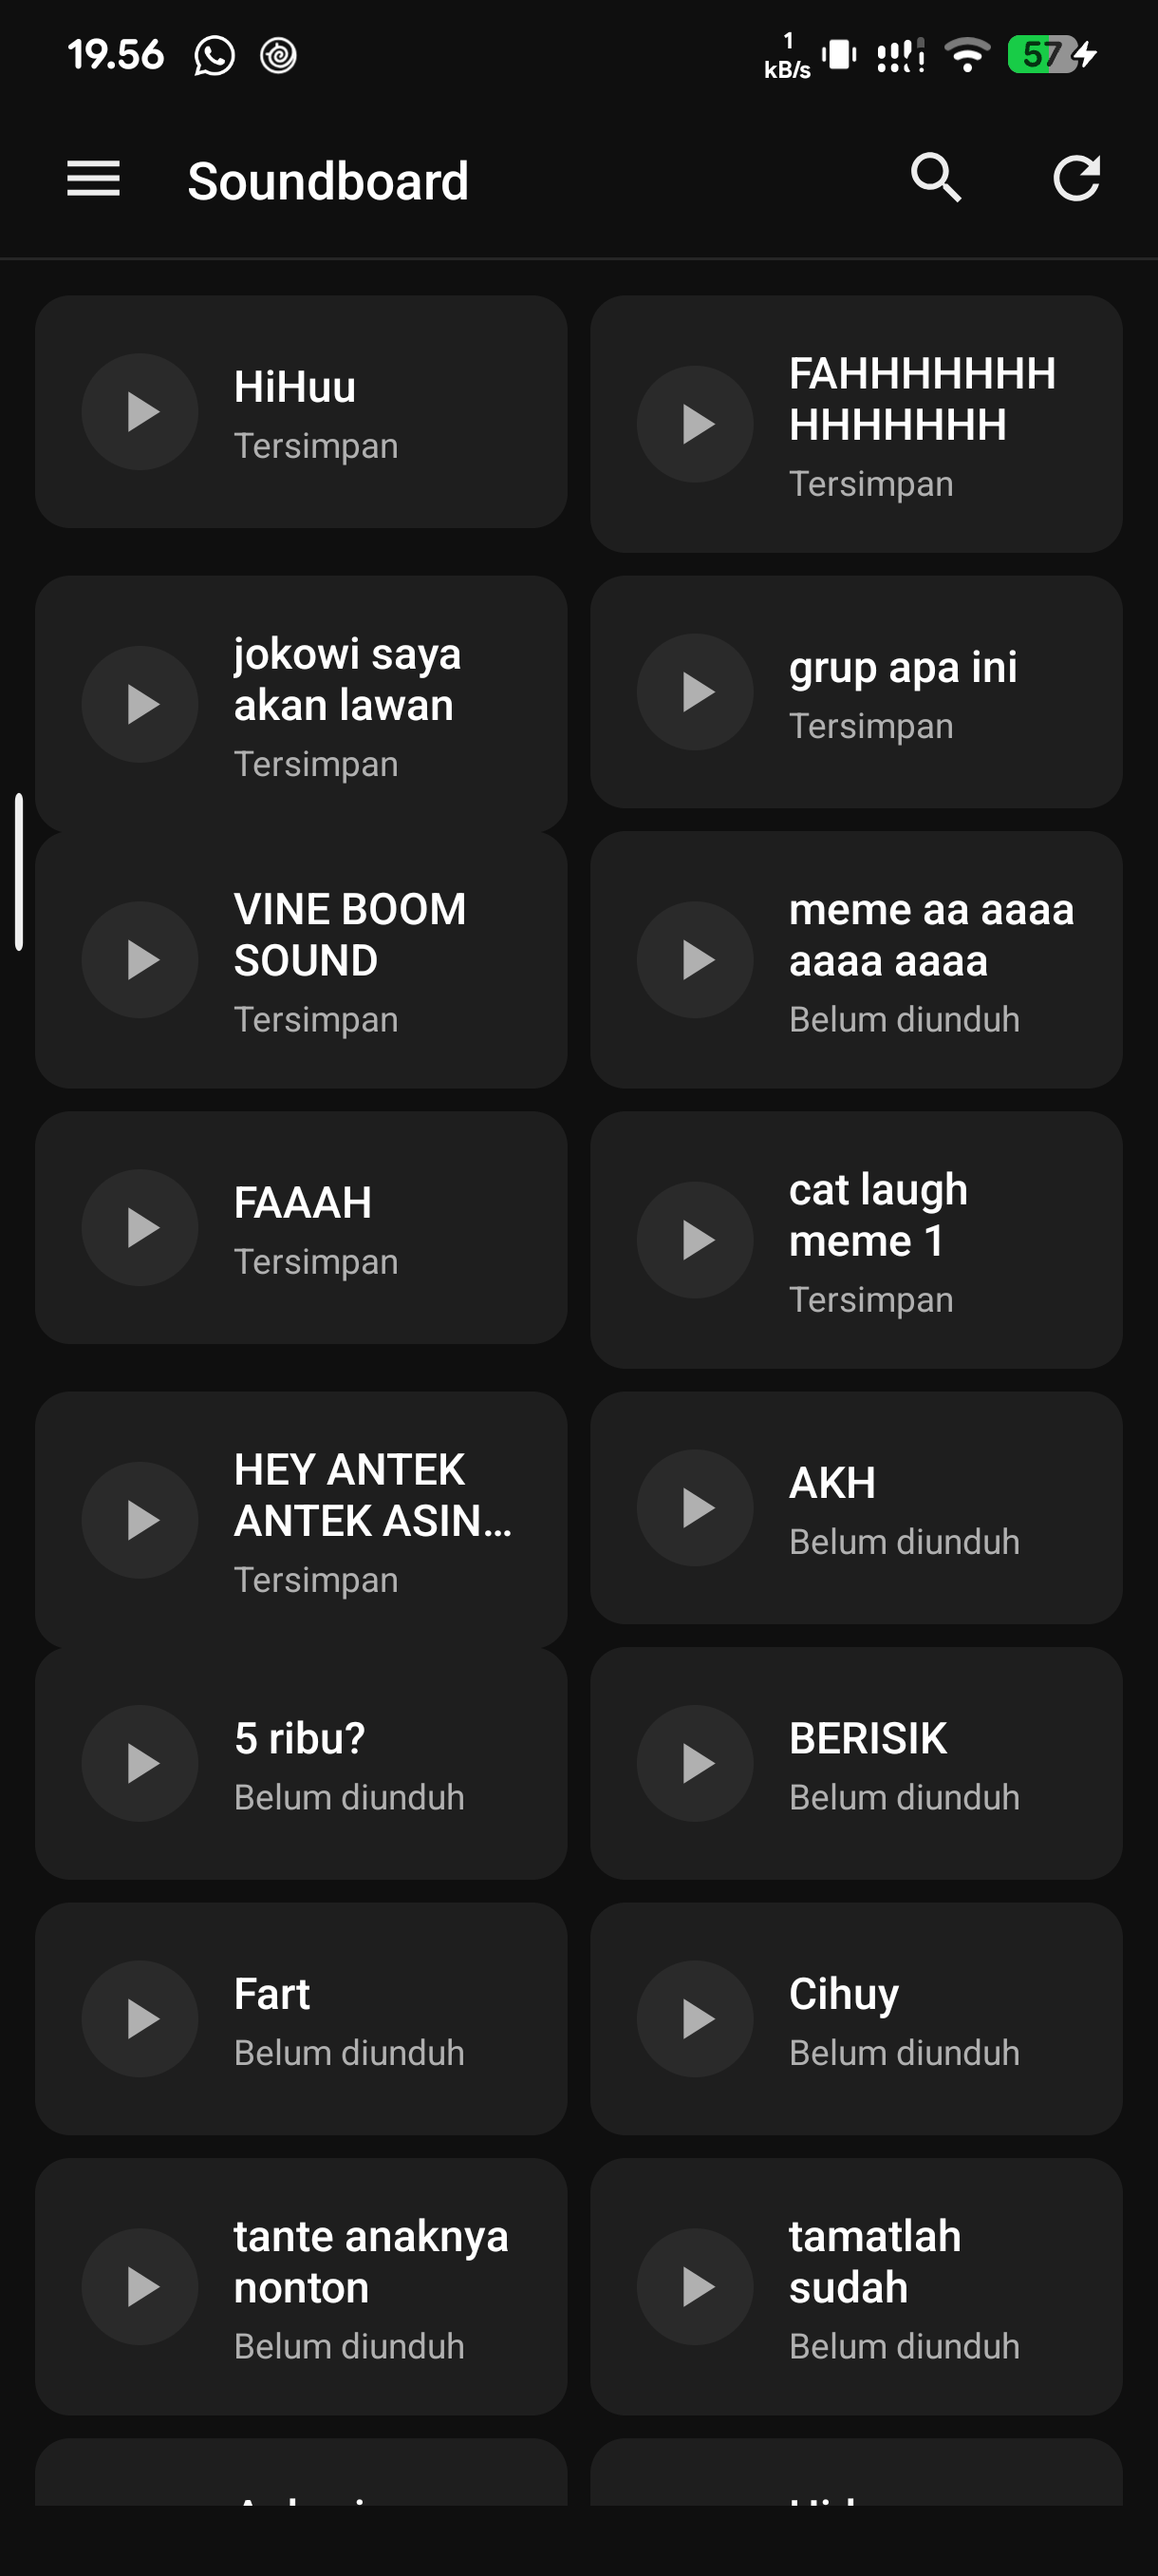
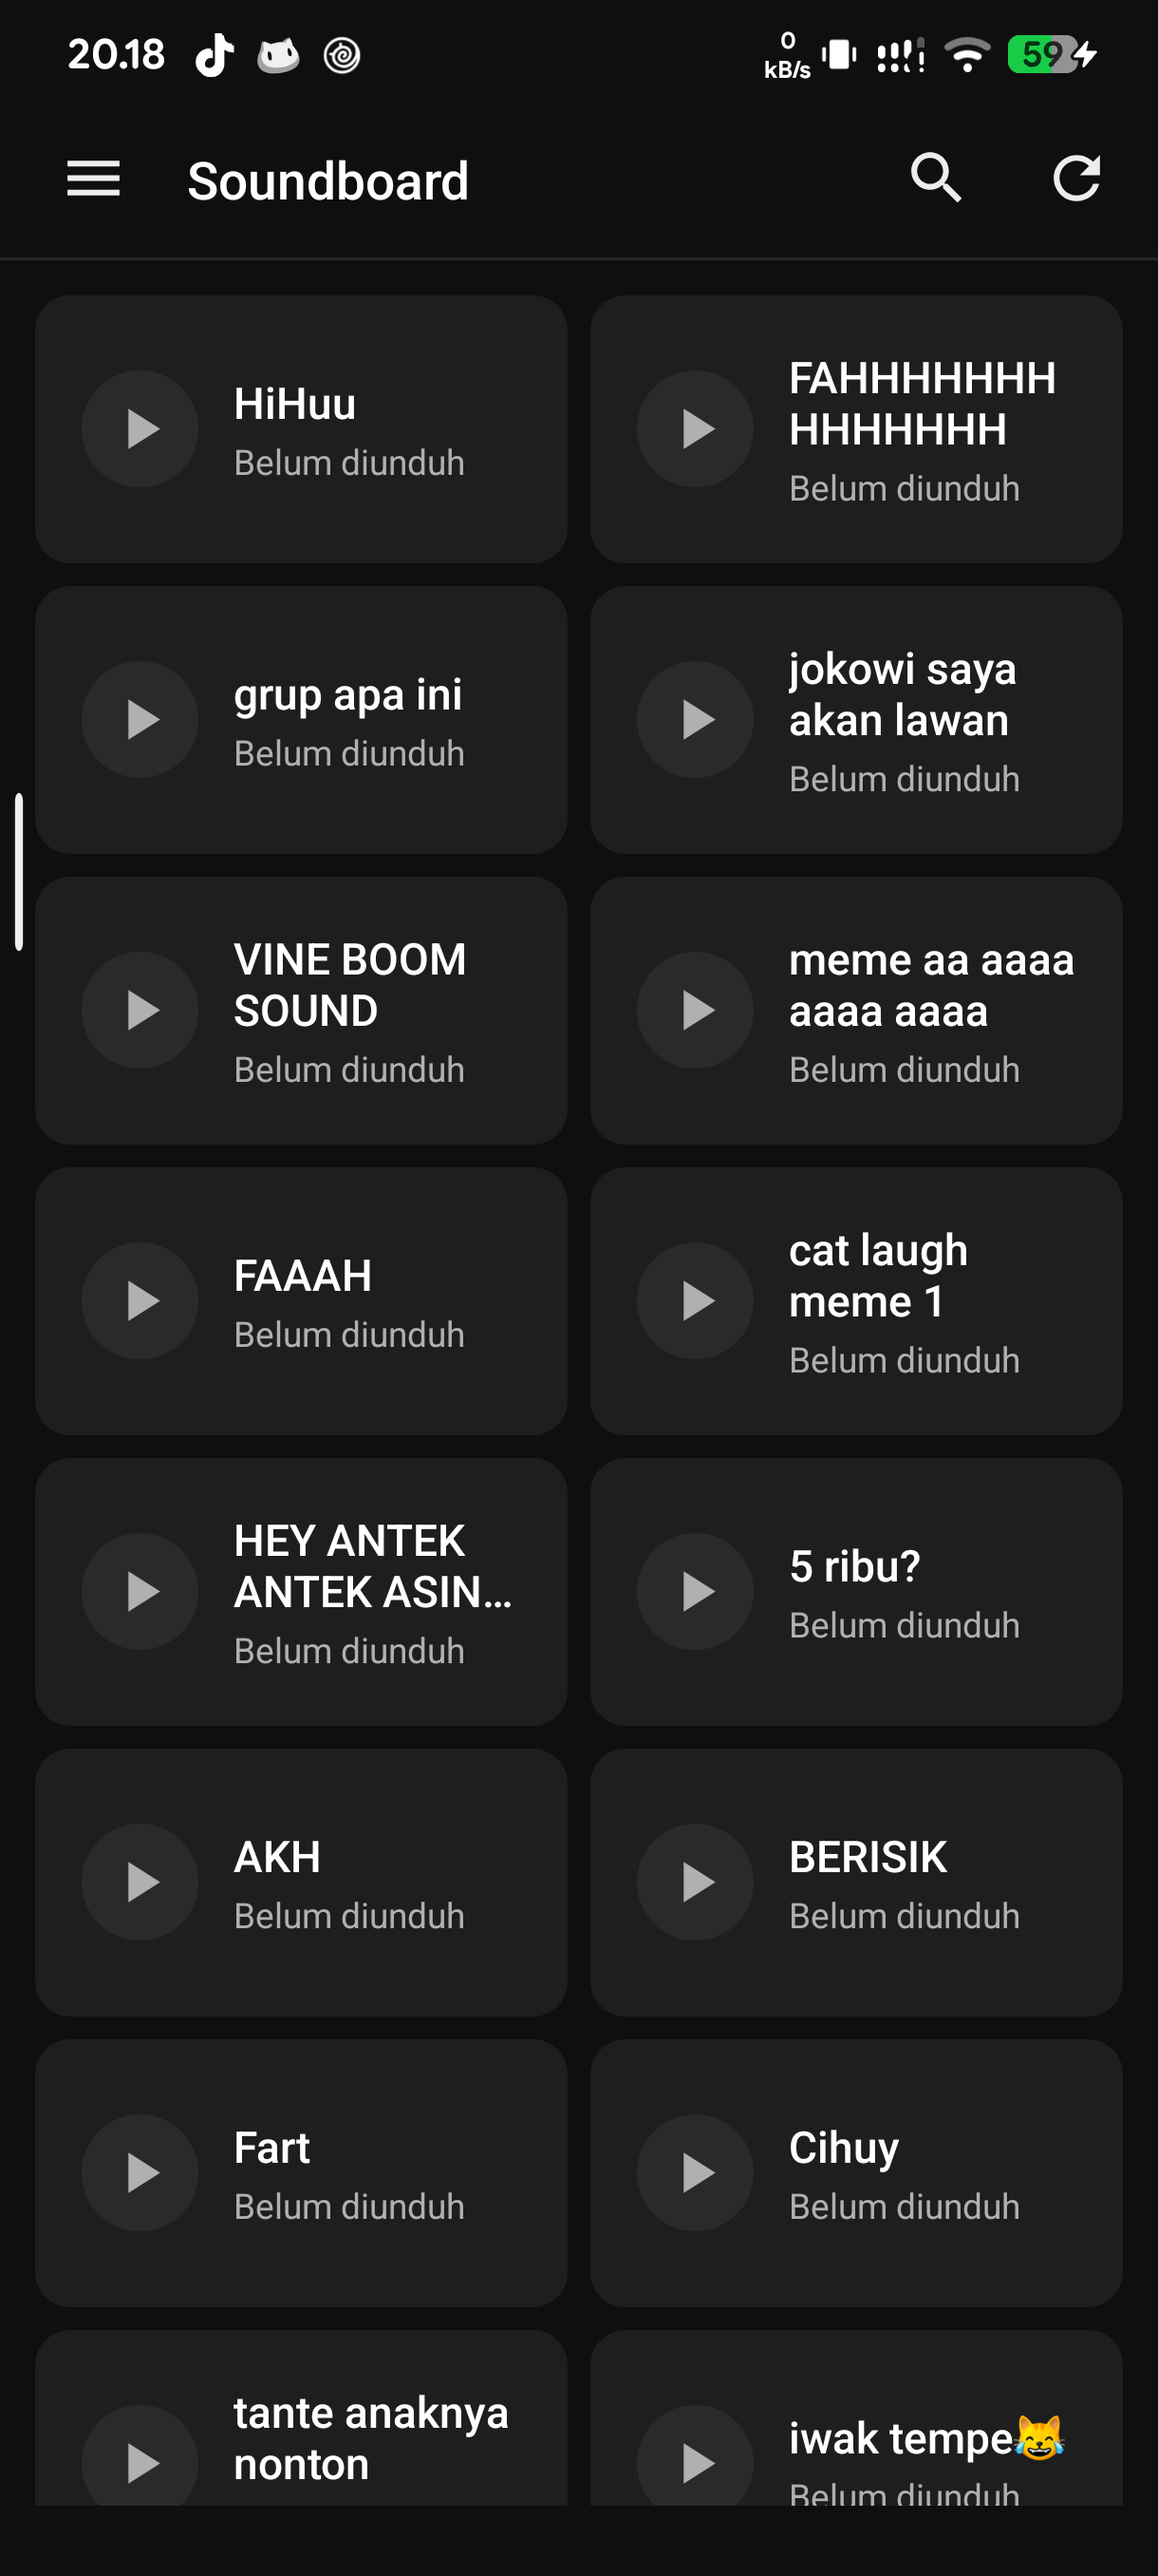
fix: lock card height so grid rows never overlap; refresh README screenshots

diff --git a/README.md b/README.md
@@ -4,9 +4,11 @@ Unofficial personal sound browser for [myinstants.com](https://www.myinstants.co
 
 Sound list, search and playback are native Android views. The website is only used to sync the catalog and download audio, so the app still opens and plays cached sounds without a connection.
 
-| App | Launcher |
-| --- | --- |
-| ![Soundboard grid](docs/screenshot.png) | ![Soundboard icon](docs/launcher.png) |
+| Dark | Light | Playing |
+| --- | --- | --- |
+| ![Soundboard grid, dark theme](docs/screenshot.png) | ![Soundboard grid, light theme](docs/screenshot-light.png) | ![Sound playing state](docs/screenshot-playing.png) |
+
+![Soundboard icon](docs/launcher.png)
 
 ## What it does
 
